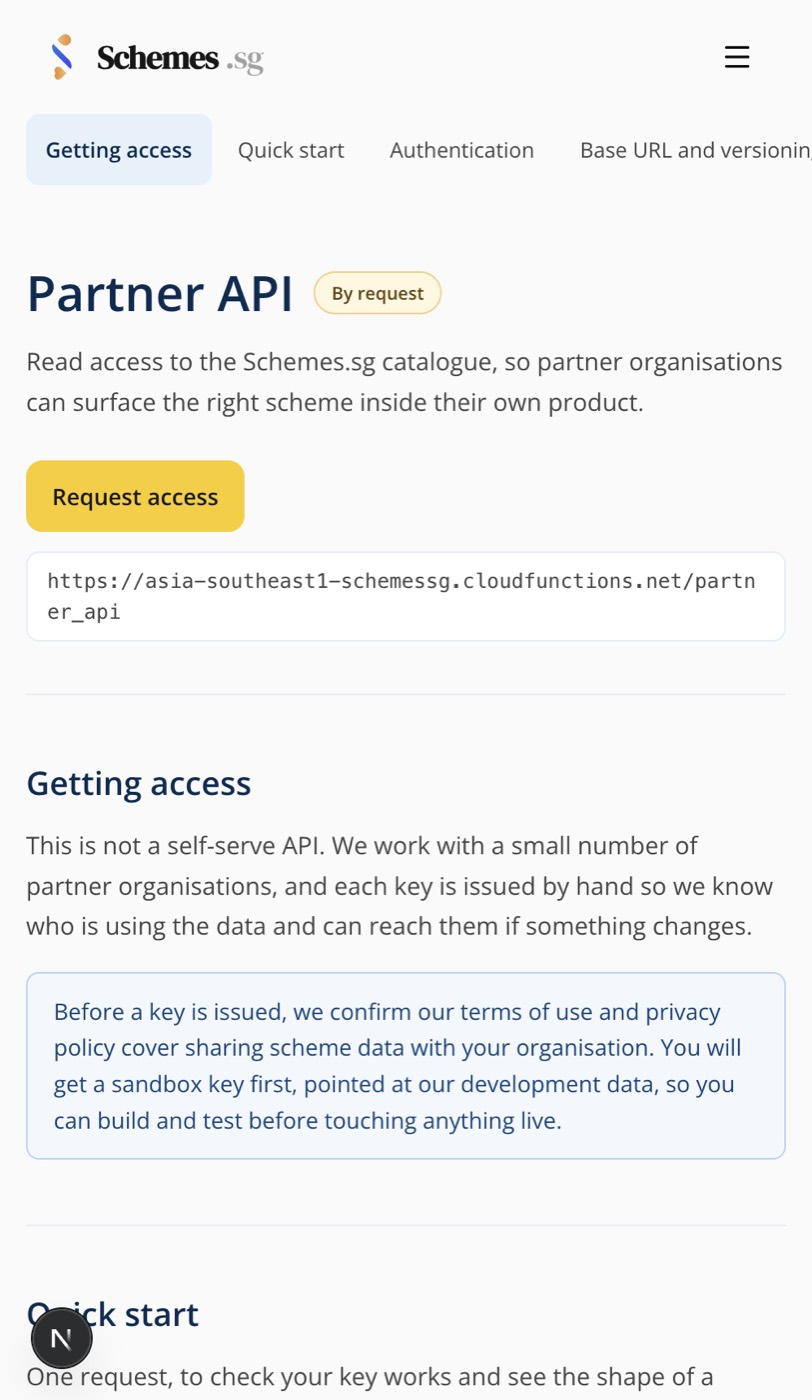
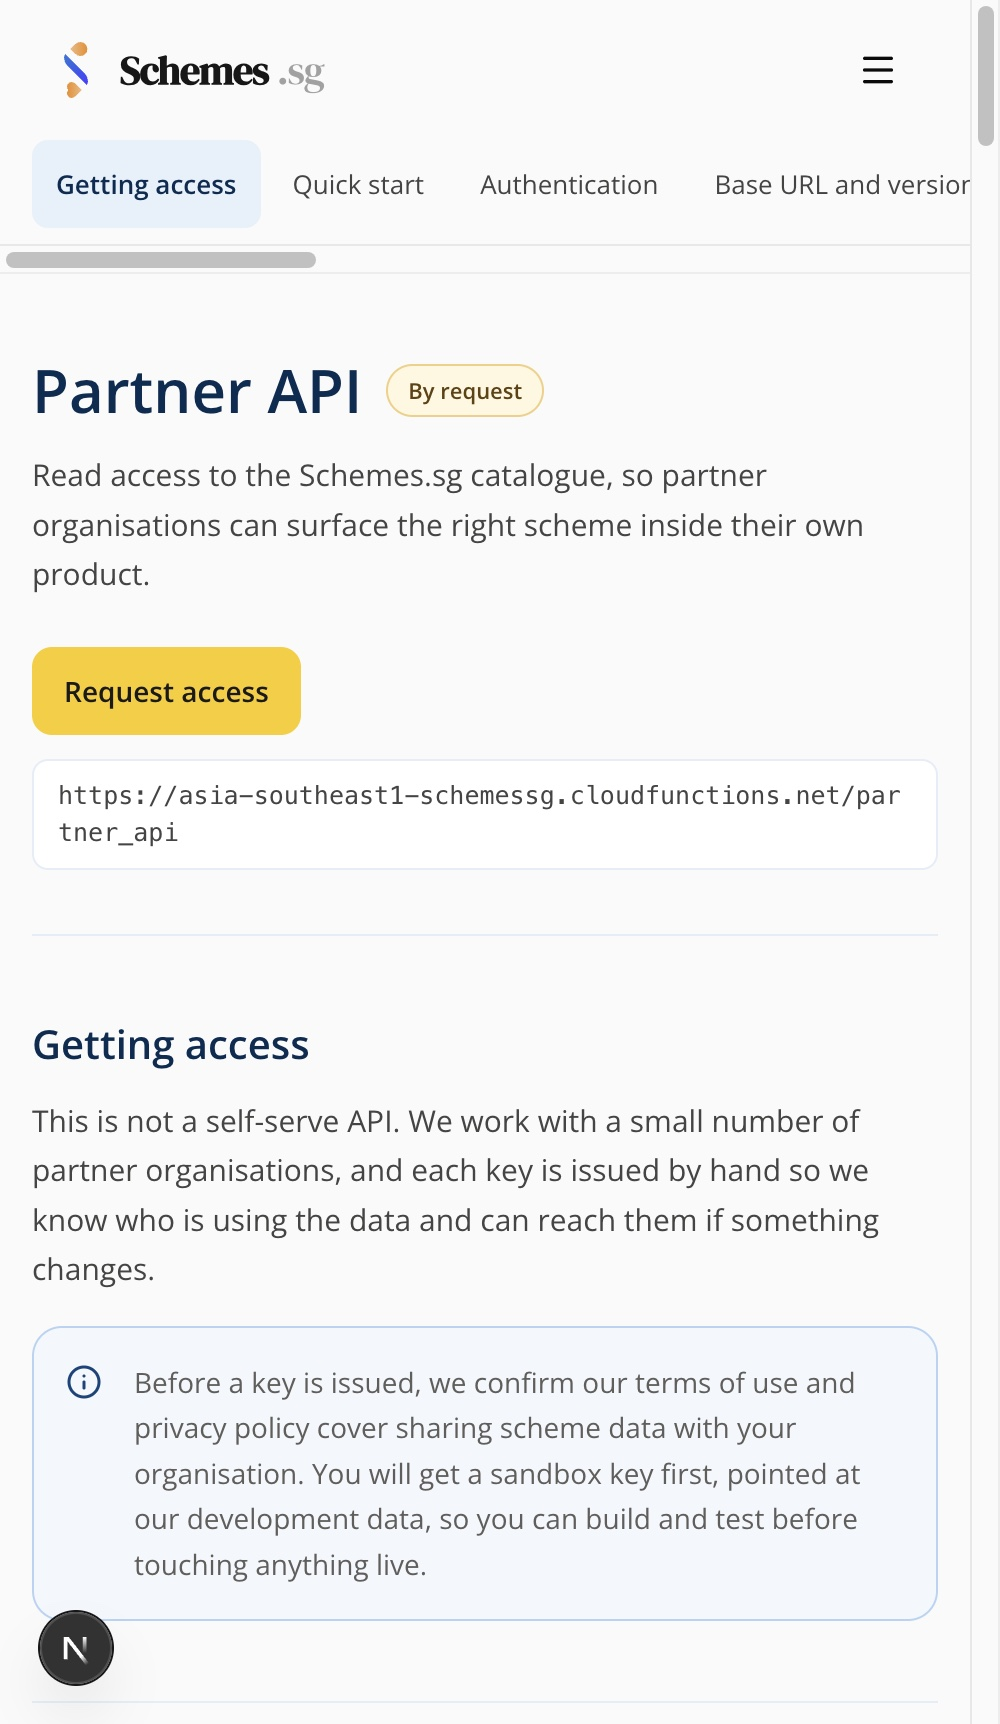
docs: recapture evidence screenshots at readable resolution
The desktop shot was 293px wide and unreadable. Cause: sips -Z caps the longest
side, so a tall full-page capture had its width crushed instead of its height.

Now captured at native retina 2880px and resampled by width to 1760px -- twice
GitHub's ~880px render column, so text stays sharp -- and split into three framed
desktop views rather than one enormous full-page strip. Mobile stays at its native
1000px rather than being upscaled.

diff --git a/docs/partner-api-verification.md b/docs/partner-api-verification.md
@@ -111,10 +111,17 @@ Screenshots captured over CDP against the dev server, not asserted from markup:
 
 | Shot | What it shows |
 | --- | --- |
-| [`01-developers-desktop.jpg`](evidence/partner-api/01-developers-desktop.jpg) | Full `/developers` page at 1440px — all 11 sections, pinned sidebar, dark code panels |
-| [`02-privacy-full.jpg`](evidence/partner-api/02-privacy-full.jpg) | `/privacy` |
-| [`03-terms-full.jpg`](evidence/partner-api/03-terms-full.jpg) | `/terms` |
+| [`01-developers-desktop.jpg`](evidence/partner-api/01-developers-desktop.jpg) | `/developers` at 1440px — header, pinned sidebar, first sections |
+| [`02-developers-operations.jpg`](evidence/partner-api/02-developers-operations.jpg) | The operations reference: params left, request and response panels right |
+| [`03-developers-errors-and-fields.jpg`](evidence/partner-api/03-developers-errors-and-fields.jpg) | Field table, error table and rate-limit headers |
 | [`04-developers-mobile.jpg`](evidence/partner-api/04-developers-mobile.jpg) | `/developers` at mobile width, after both layout fixes below |
+| [`05-privacy.jpg`](evidence/partner-api/05-privacy.jpg) | `/privacy` |
+| [`06-terms.jpg`](evidence/partner-api/06-terms.jpg) | `/terms` |
+
+Captured at native retina (2880px) and resampled to 1760px wide — twice GitHub's
+render column, so text stays sharp. An earlier pass used `sips -Z`, which caps the
+*longest* side and therefore squashed a tall full-page capture to 293px wide and
+unreadable; width-constrained resampling is the fix.
 
 Console on `/developers`: no errors or warnings from page code.
 
@@ -124,6 +131,8 @@ Schemes.sg palette: pinned section sidebar with method badges, prose left, dark
 
 ![/developers desktop](evidence/partner-api/01-developers-desktop.jpg)
 
+![/developers operations](evidence/partner-api/02-developers-operations.jpg)
+
 **`/developers`, mobile** — horizontally-scrolling section strip sitting below the
 navbar, after both layout fixes below.
 
@@ -131,9 +140,9 @@ navbar, after both layout fixes below.
 
 **`/privacy` and `/terms`** — interim pages, honest about being drafts.
 
-![privacy](evidence/partner-api/02-privacy-full.jpg)
+![privacy](evidence/partner-api/05-privacy.jpg)
 
-![terms](evidence/partner-api/03-terms-full.jpg)
+![terms](evidence/partner-api/06-terms.jpg)
 
 ### Two mobile layout bugs found this way and fixed
 
